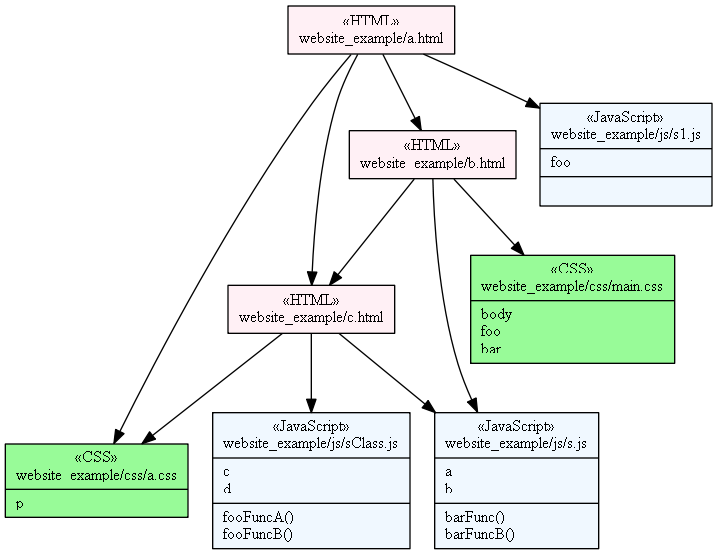
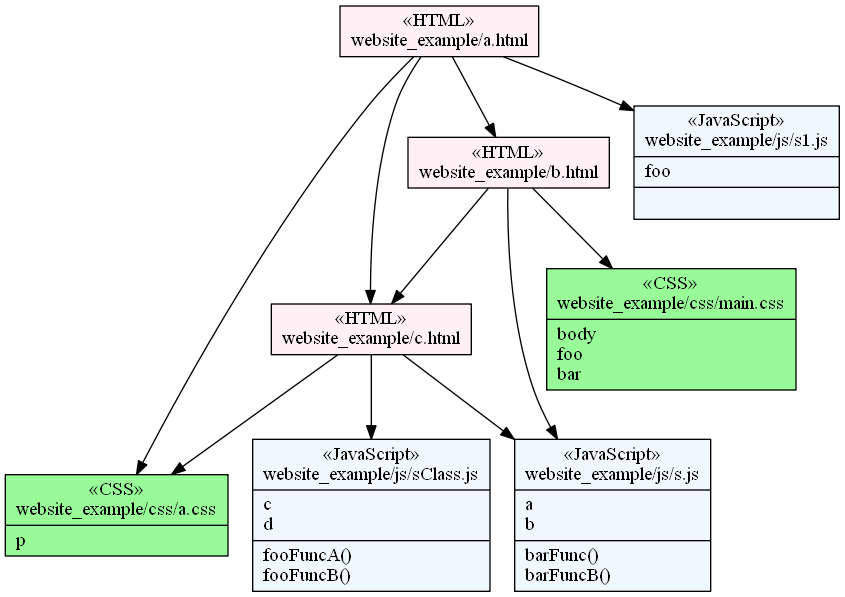
Fixed small glitch in diagram, added AJAX

diff --git a/lib/deps/graphvizClass.js b/lib/deps/graphvizClass.js
@@ -28,23 +28,23 @@ var graphvizClass = module.exports = {
 				function(cb) {
 					async.map(nodes, function(node,cbmap2) {
 						if(node.group == 1){
-							g.addNode(node.name, {"label":'{&laquo;HTML»\\n'+node.name+'}',"fontsize":"12","shape":"record","style":"filled","fillcolor" : "lavenderblush"} );
+							g.addNode(node.name, {"label":'{&laquo;HTML»\\n'+node.name+'}',"shape":"record","style":"filled","fillcolor" : "lavenderblush"} );
 						}
 						if(node.group == 2){
 							
 							var variables = node.composition.variables;
-							if(variables.length>50){
-								variables = variables.slice(0, 50);
+							if(variables.length>80){
+								variables = variables.slice(0, 80);
 								variables.push("...");
 							}
 
 							var functions = node.composition.functions
-							if(functions.length>50){
-								functions = functions.slice(0,50);
+							if(functions.length>80){
+								functions = functions.slice(0,80);
 								functions.push("...");
 							}
 
-							g.addNode( node.name, {"label":'{&laquo;JavaScript»\\n'+node.name+'|'+variables.join('\\l')+'\\l|'+functions.join('\\l')+'\\l}',"fontsize":"12","shape":"record","style":"filled","fillcolor" : "aliceblue"} );
+							g.addNode( node.name, {"label":'{&laquo;JavaScript»\\n'+node.name+'|'+variables.join('\\l')+'\\l|'+functions.join('\\l')+'\\l}',"shape":"record","style":"filled","fillcolor" : "aliceblue"} );
 
 						}
 						if(node.group == 3){
@@ -63,7 +63,7 @@ var graphvizClass = module.exports = {
 
 							}
 
-							g.addNode( node.name, {"label":'{&laquo;CSS»\\n'+node.name+'|'+rules.join('\\l')+'\\l}',"fontsize":"12","shape":"record","style":"filled","fillcolor" : "palegreen"} );
+							g.addNode( node.name, {"label":'{&laquo;CSS»\\n'+node.name+'|'+rules.join('\\l')+'\\l}',"shape":"record","style":"filled","fillcolor" : "palegreen"} );
 						
 							//g.addNode( node.name, {"label":'{&laquo;CSS»\\n'+node.name+'}',"fontsize":"12","shape":"record","style":"filled","fillcolor" : "palegreen"} );
 						}
